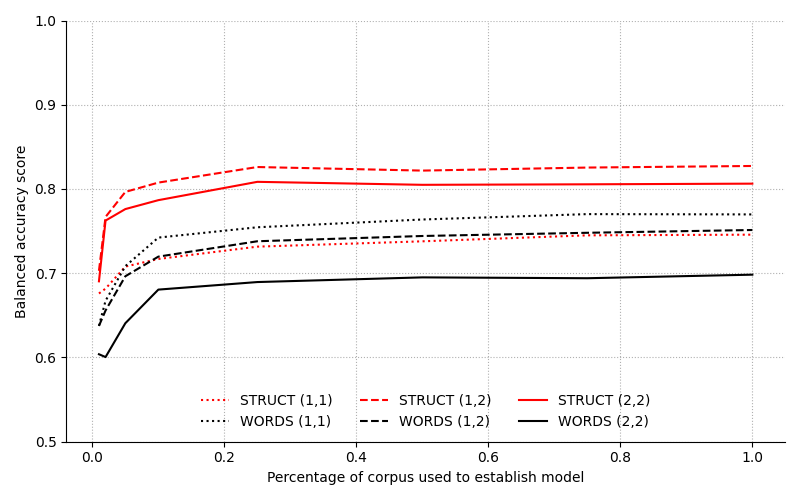
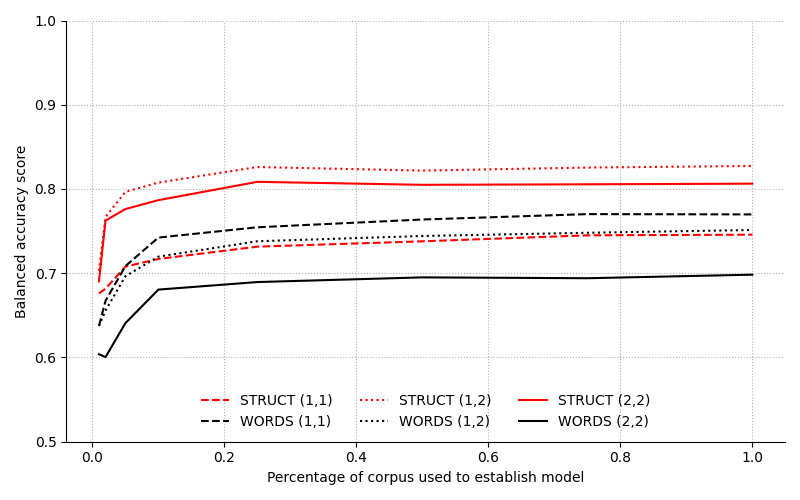
P2.

diff --git a/plot2.py b/plot2.py
@@ -19,12 +19,12 @@ fig, ax = plt.subplots(1, 1, figsize=(8, 5))
 for i, label in enumerate(labels):
     print(i, label)
     ax.plot(quantities, results_11[i],
-            label="%s (1,1)" % label, ls=':', c=colors[i])
+            label="%s (1,1)" % label, ls='--', c=colors[i])
 
 for i, label in enumerate(labels):
     print(i, label)
     ax.plot(quantities, results_12[i],
-            label="%s (1,2)" % label, ls='--', c=colors[i])
+            label="%s (1,2)" % label, ls=':', c=colors[i])
 
 
 for i, label in enumerate(labels):
